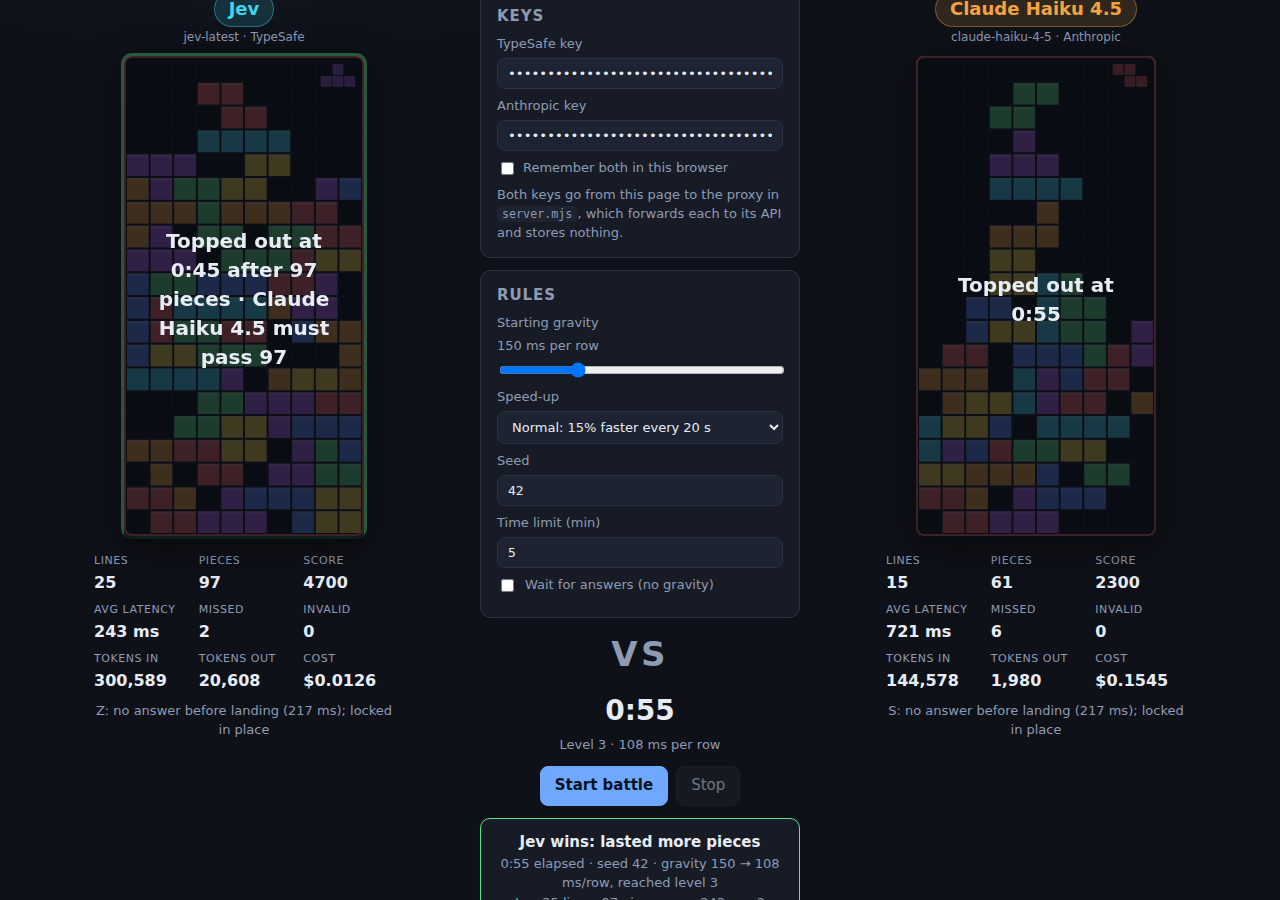
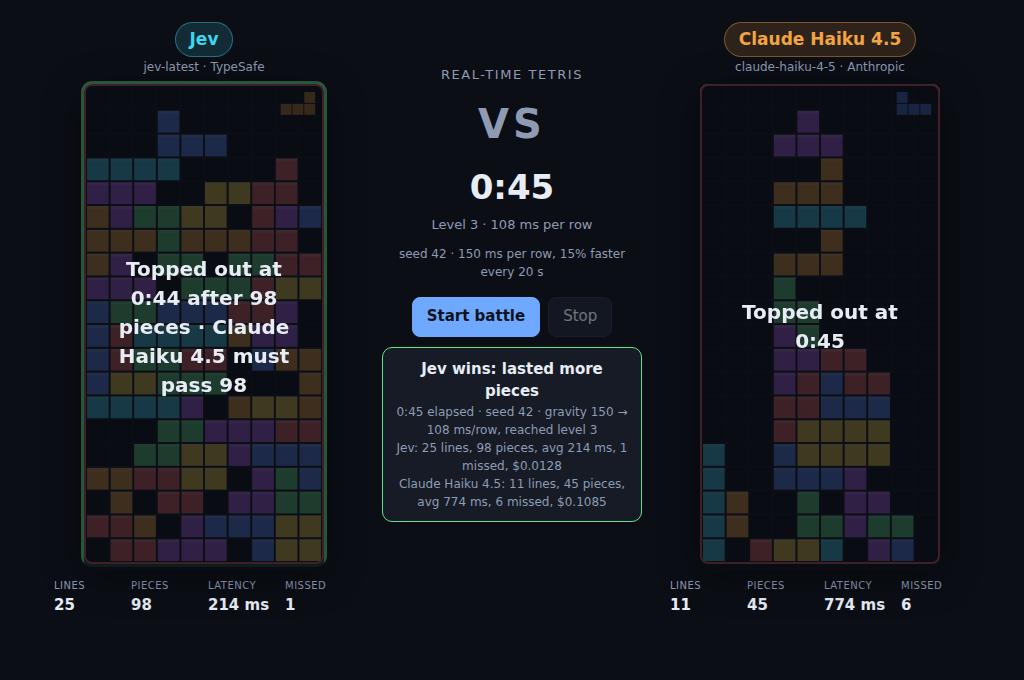
Battle: shorter presentation title, refreshed screenshot
Claude-Session: https://claude.ai/code/session_016YCduUQvKvzKhRYFEpSHCa

diff --git a/public/battle.html b/public/battle.html
@@ -37,14 +37,15 @@
     </section>
 
     <section class="center">
-      <div class="card">
+      <div class="present-title">Real-time Tetris</div>
+      <div class="card" id="setup-card">
         <h2>Keys</h2>
         <label class="field">TypeSafe key <input id="jevKey" type="password" placeholder="apikey_…" autocomplete="off" spellcheck="false" /></label>
         <label class="field">Anthropic key <input id="haikuKey" type="password" placeholder="sk-ant-…" autocomplete="off" spellcheck="false" /></label>
         <label class="remember"><input id="remember" type="checkbox" /> Remember both in this browser</label>
         <p class="hint">Both keys go from this page to the proxy in <code>server.mjs</code>, which forwards each to its API and stores nothing.</p>
       </div>
-      <div class="card">
+      <div class="card" id="rules-card">
         <h2>Rules</h2>
         <label class="field">Starting gravity <span class="muted" id="gravityLabel"></span><input id="gravity" type="range" min="60" max="400" step="10" value="150" /></label>
         <label class="field">Speed-up
@@ -62,6 +63,7 @@
       <div class="vs">VS</div>
       <div class="clock" id="clock">0:00</div>
       <div class="level muted" id="level">Level 1 · 150 ms per row</div>
+      <div class="match-info" id="matchInfo"></div>
       <div class="controls center-controls">
         <button id="start" class="primary">Start battle</button>
         <button id="stop" disabled>Stop</button>
